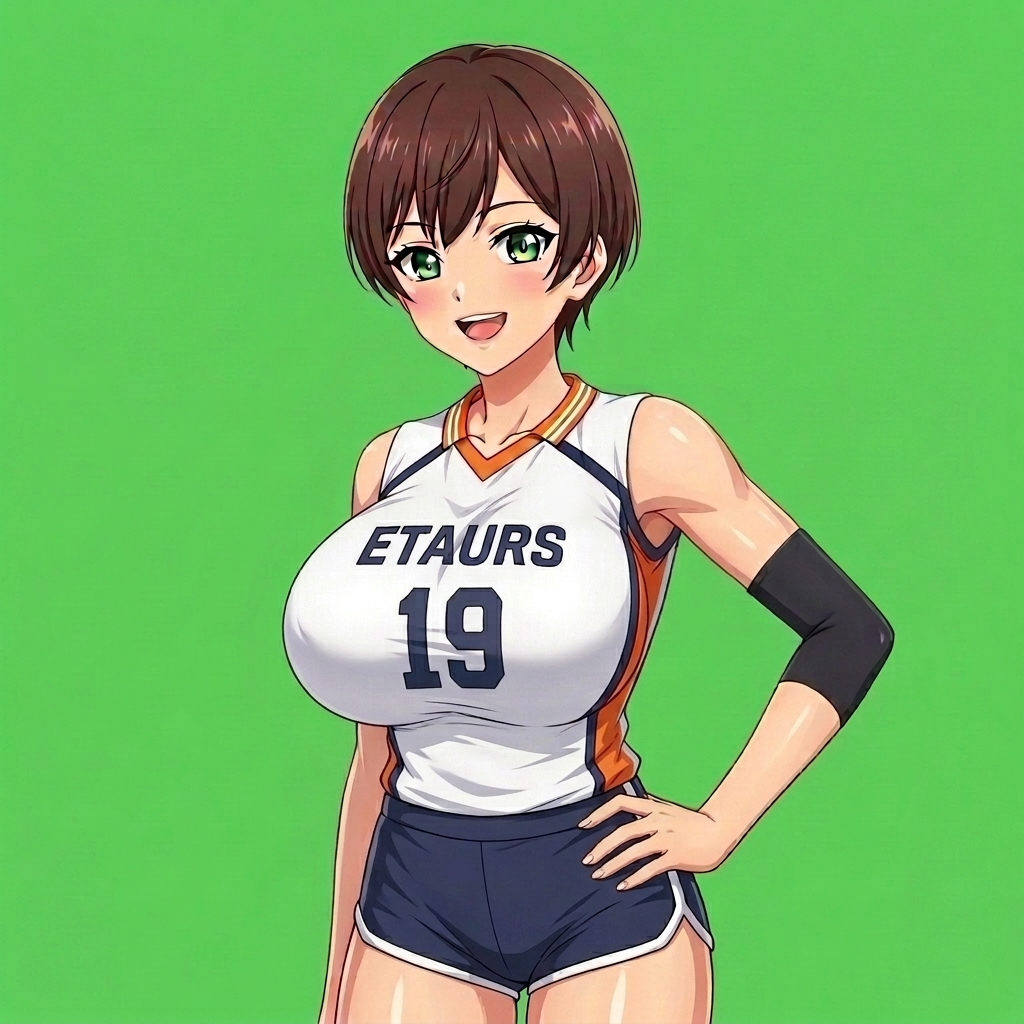
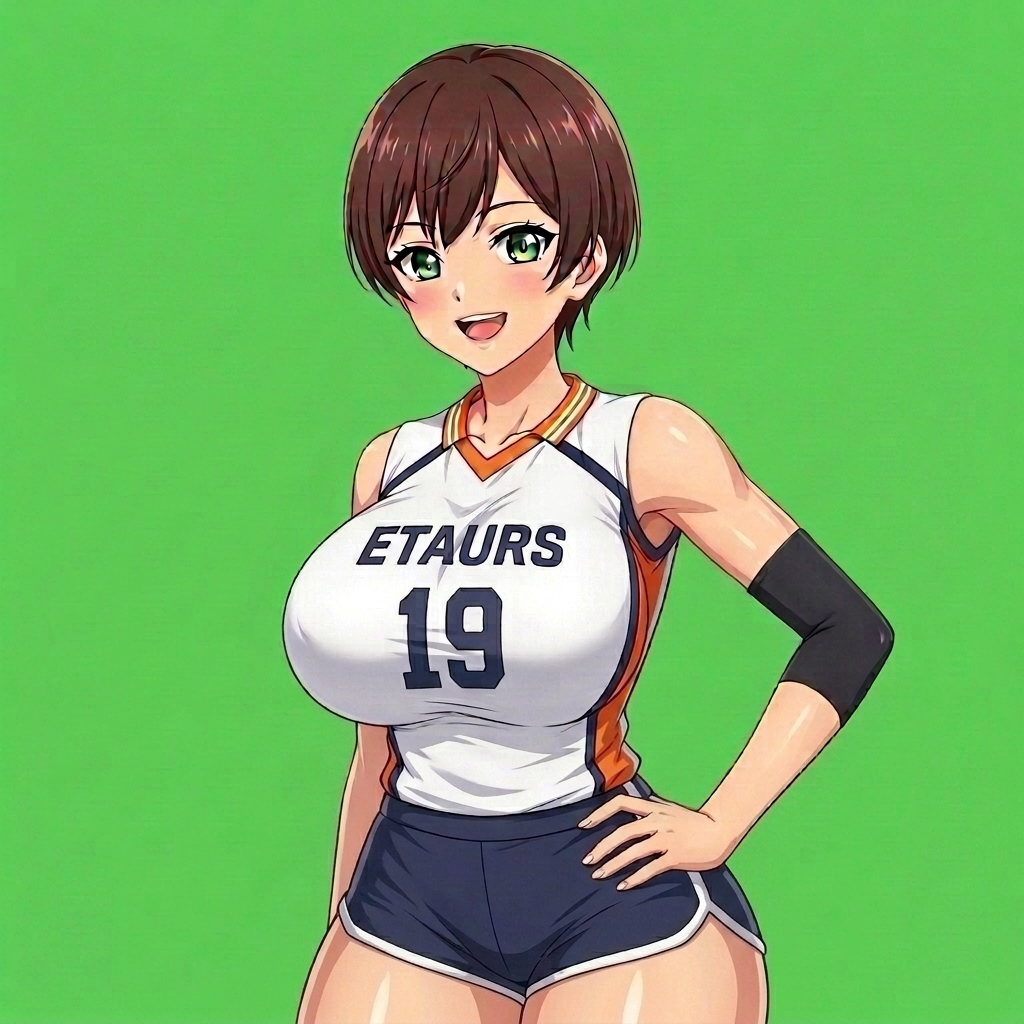
feat: 다인 이미지 편집 프롬프트 내용 수정

Changed region(s): [[0.4375, 0.8125, 0.75, 1.0], [0.2812, 0.7812, 0.4062, 1.0], [0.5938, 0.75, 0.6562, 0.7812]]

diff --git a/edit_dain.py b/edit_dain.py
@@ -32,7 +32,7 @@ payload = {
                 }
             },
             {
-                "text": "Edit this anime character image. 1) Remove the small bird logo and text near the collar area on the upper right chest. Make that area just plain white fabric. 2) Remove the black elbow guard/arm sleeve from her right arm (the arm hanging down). Her right arm should be bare. Keep the black arm sleeve on her left arm (the one on her hip). Keep everything else the same - same face, hair, chest size, navy shorts, pose, green background. Output one single image."
+                "text": "Edit this anime character image. Make her hips and pelvis wider and more voluminous. She should have a wider hourglass figure with bigger broader hips. Keep everything else exactly the same - same face, hair, chest size, uniform, navy shorts, pose, green background, no logo on chest, bare right arm, arm sleeve on left arm only. Output one single image."
             }
         ]
     }],
